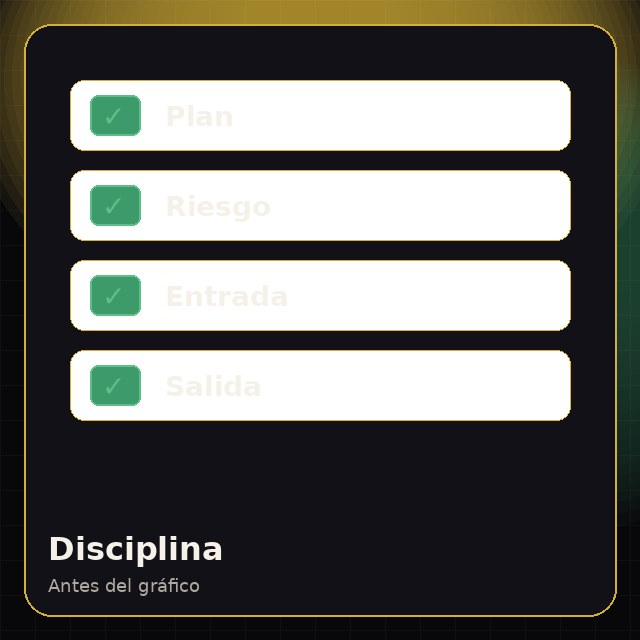
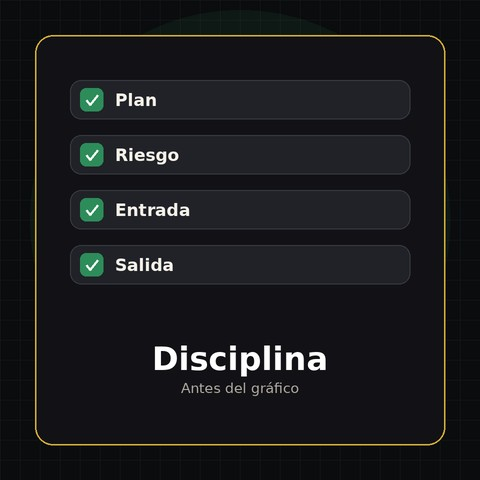
QA fix: strip-discipline contrast + sticky bar to Stripe; P0 music links already gone

diff --git a/index.html b/index.html
@@ -301,8 +301,8 @@
   <script>document.getElementById("y").textContent = new Date().getFullYear();</script>
 
   <div class="mobile-buybar" role="region" aria-label="Comprar rápido">
-    <a class="cta cta-primary" href="#pack-fomo">FOMO · €5</a>
-    <a class="cta cta-secondary" href="#brief-fed">Fed · €9</a>
+    <a class="cta cta-primary" href="https://buy.stripe.com/14A7sL5x69T32QE1RHbII01" rel="noopener noreferrer" target="_blank">FOMO · €5</a>
+    <a class="cta cta-secondary" href="https://buy.stripe.com/28EfZhbVu5CN9f267XbII02" rel="noopener noreferrer" target="_blank">Fed · €9</a>
   </div>
 </body>
 </html>
